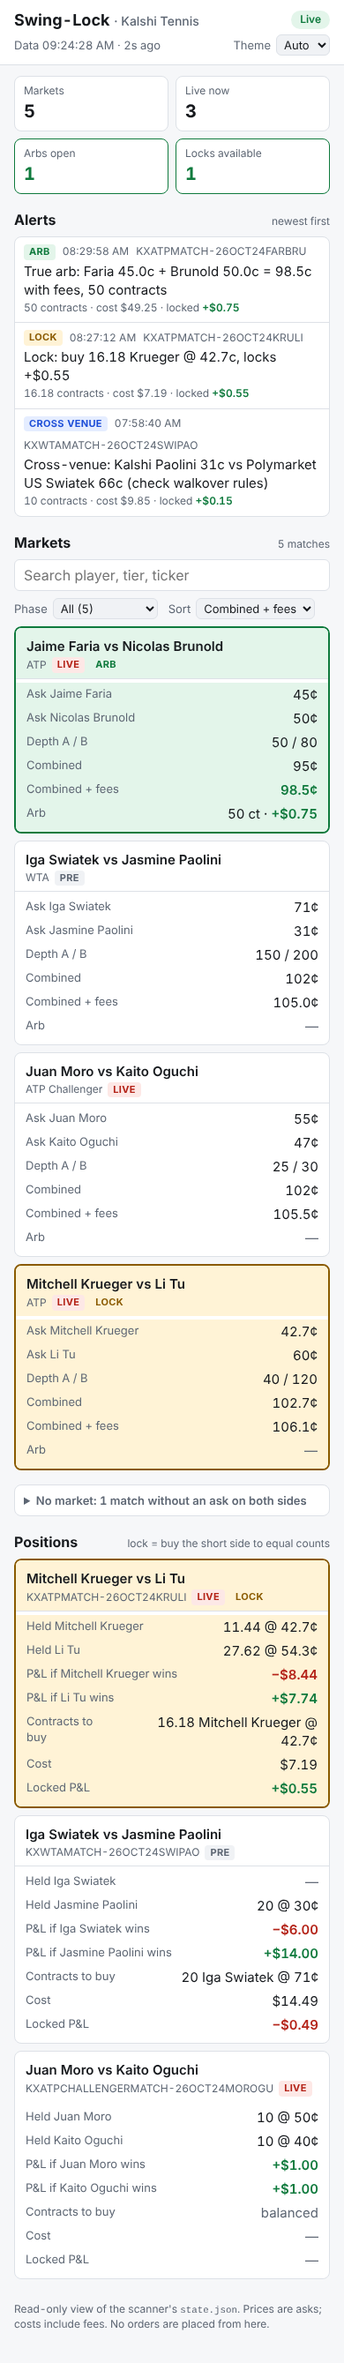
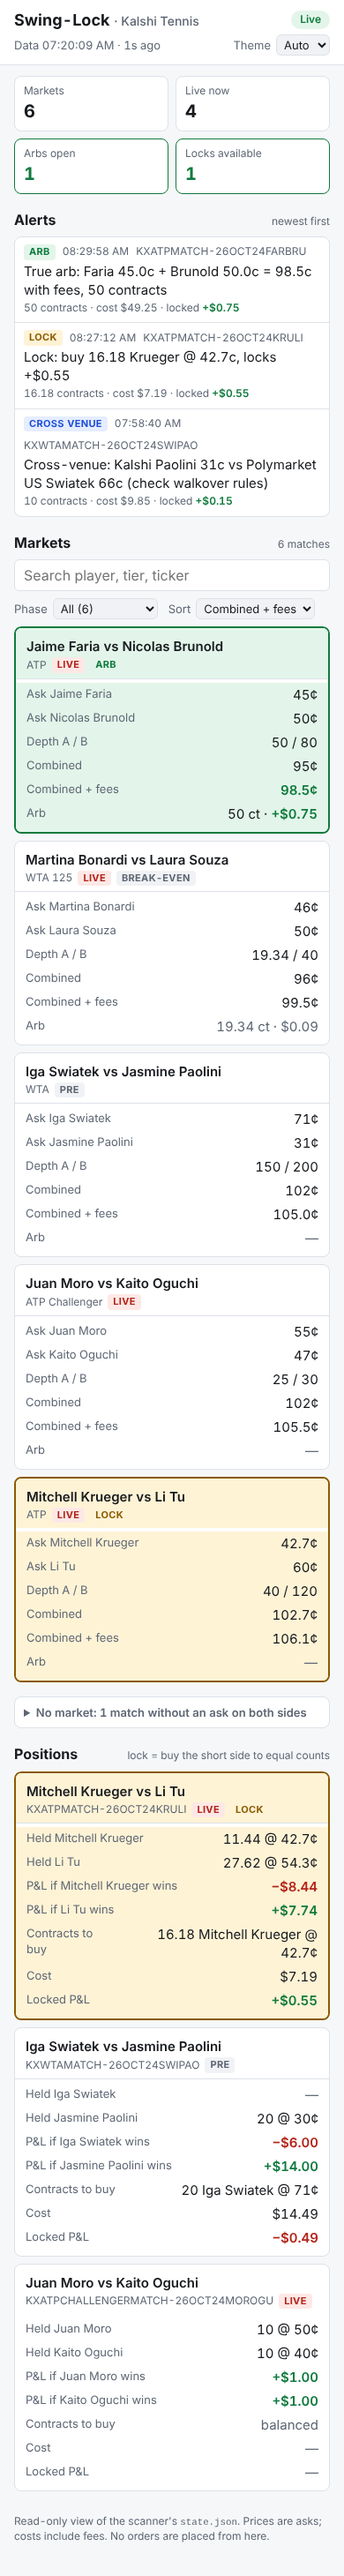
Dashboard: arbs count only above the alert threshold; WTA 125 / ATP Challenger labels
- an arb is open only when arb_profit / arb_contracts >= min_arb_profit_per_contract
  (from state.json when the scanner sends it, else config.yaml's 0.005); positive but
  smaller ones get a muted 'break-even' tag and stay out of the 'Arbs open' tile
- tier labels from the series (the scanner's tier says 'challenger' for both)
- sample: scanner-style tier values + a WTA 125 break-even match (19.34 ct, $0.09)
- tests: break-even, labels, threshold read from state; screenshots

Claude-Session: https://claude.ai/code/session_01W1DSUJuc7wQcHRTpWk2cX2

diff --git a/swinglock/dashboard/static/app.js b/swinglock/dashboard/static/app.js
@@ -118,14 +118,32 @@ function profitableLocks(s) {
   }
   return ids;
 }
-const isArb = (m) => isNum(m.arb_profit) && m.arb_profit > 0;
+// An arb counts as open only when its profit per contract clears the scanner's alert threshold
+// (state.min_arb_profit_per_contract if the scanner sends it, else config.yaml's default).
+// A positive profit below it rounds to about $0.00 at real size: shown as "break-even".
+const DEFAULT_MIN_ARB = 0.005;   // config.yaml scanner.min_arb_profit_per_contract
+function minArb() {
+  const v = state && state.min_arb_profit_per_contract;
+  return isNum(v) && v >= 0 ? v : DEFAULT_MIN_ARB;
+}
+const arbEdge = (m) => (isNum(m.arb_profit) && m.arb_profit > 0 && isNum(m.arb_contracts) && m.arb_contracts > 0
+  ? m.arb_profit / m.arb_contracts : null);
+const isArb = (m) => { const e = arbEdge(m); return e !== null && e >= minArb() - 1e-12; };
+const isBreakEven = (m) => arbEdge(m) !== null && !isArb(m);
+
+// Scanner's `tier` lumps ATP Challenger and WTA 125 together as "challenger"; label from the series.
+const SERIES_LABEL = {
+  KXATPMATCH: "ATP", KXWTAMATCH: "WTA", KXATPCHALLENGERMATCH: "ATP Challenger",
+  KXWTACHALLENGERMATCH: "WTA 125", KXITFMATCH: "ITF Men", KXITFWMATCH: "ITF Women",
+};
+const tierLabel = (m) => SERIES_LABEL[m.series] || m.tier || m.series || "";
 
 const PHASE_ORDER = { live: 0, pre: 1, unknown: 2 };
 const SORTS = {
   cwf: (a, b) => nullLast(a.combined_with_fees, b.combined_with_fees),
   combined: (a, b) => nullLast(a.combined, b.combined),
   arb: (a, b) => nullLast(b.arb_profit, a.arb_profit, true) || nullLast(a.combined_with_fees, b.combined_with_fees),
-  tier: (a, b) => String(a.tier || "").localeCompare(String(b.tier || "")) || nullLast(a.combined_with_fees, b.combined_with_fees),
+  tier: (a, b) => tierLabel(a).localeCompare(tierLabel(b)) || nullLast(a.combined_with_fees, b.combined_with_fees),
   phase: (a, b) => (PHASE_ORDER[a.phase] ?? 3) - (PHASE_ORDER[b.phase] ?? 3) || nullLast(a.combined_with_fees, b.combined_with_fees),
 };
 function nullLast(x, y, swapped = false) {
@@ -143,7 +161,7 @@ function phaseBadge(phase) {
 function matchCell(m) {
   return el("td", { class: "match" },
     el("div", { class: "players" }, `${m.player_a || "?"} vs ${m.player_b || "?"}`),
-    el("div", { class: "sub" }, m.tier || m.series || "", m.phase !== null && phaseBadge(m.phase), m.badges || []));
+    el("div", { class: "sub" }, m.label ?? tierLabel(m), m.phase !== null && phaseBadge(m.phase), m.badges || []));
 }
 // Cell content sits in one span so the phone card layout keeps label and value as two flex items.
 const td = (label, ...kids) => el("td", { class: "num", "data-label": label }, el("span", {}, ...kids));
@@ -153,7 +171,7 @@ const hasBothAsks = (m) => isNum(m.ask_a) && isNum(m.ask_b);
 function matchesFilter(m, q, phase) {
   if (phase !== "all" && (m.phase || "unknown") !== phase) return false;
   if (!q) return true;
-  const hay = [m.player_a, m.player_b, m.tier, m.series, m.match_id].join(" ").toLowerCase();
+  const hay = [m.player_a, m.player_b, tierLabel(m), m.tier, m.series, m.match_id].join(" ").toLowerCase();
   return q.split(/\s+/).every((w) => hay.includes(w));
 }
 
@@ -192,8 +210,10 @@ function renderMarkets(s) {
     body.append(el("tr", {}, el("td", { colspan: 7, class: "empty" }, msg)));
   }
   for (const m of rows) {
-    const arb = isArb(m), lock = locks.has(m.match_id);
-    const badges = [arb && el("span", { class: "badge arb" }, "arb"), lock && el("span", { class: "badge lock" }, "lock")];
+    const arb = isArb(m), even = isBreakEven(m), lock = locks.has(m.match_id);
+    const badges = [arb && el("span", { class: "badge arb" }, "arb"),
+      even && el("span", { class: "badge", title: `under ${(minArb() * 100).toFixed(1)}¢ per contract after fees` }, "break-even"),
+      lock && el("span", { class: "badge lock" }, "lock")];
     const cwf = m.combined_with_fees;
     body.append(el("tr", { class: arb ? "hot-arb" : lock ? "hot-lock" : "" },
       matchCell({ ...m, badges }),
@@ -201,8 +221,10 @@ function renderMarkets(s) {
       td("Ask " + (m.player_b || "B"), cents(m.ask_b)),
       td("Depth A / B", `${qty(m.size_a)} / ${qty(m.size_b)}`),
       td("Combined", cents(m.combined)),
-      td("Combined + fees", isNum(cwf) ? el("span", { class: cwf < 1 ? "pos" : "" }, cents(cwf)) : cents(cwf)),
-      td("Arb", arb ? [qty(m.arb_contracts) + " ct · ", money(m.arb_profit)] : el("span", { class: "na" }, "—"))));
+      td("Combined + fees", isNum(cwf) ? el("span", { class: arb ? "pos" : "" }, cents(cwf)) : cents(cwf)),
+      td("Arb", arb ? [qty(m.arb_contracts) + " ct · ", money(m.arb_profit)]
+        : even ? el("span", { class: "na" }, `${qty(m.arb_contracts)} ct · $${m.arb_profit.toFixed(2)}`)
+        : el("span", { class: "na" }, "—"))));
   }
 
   // Matches missing an ask on a side (often ended, suspended or not yet listed): one collapsed group.
@@ -213,7 +235,7 @@ function renderMarkets(s) {
       : `no ask on ${(!isNum(m.ask_a) ? m.player_a : m.player_b) || "one side"}`;
     return el("li", {},
       el("span", { class: "players" }, `${m.player_a || "?"} vs ${m.player_b || "?"}`),
-      el("span", { class: "why" }, `${m.tier || m.series || ""} · ${m.phase || "unknown"} · ${missing}`));
+      el("span", { class: "why" }, `${tierLabel(m)} · ${m.phase || "unknown"} · ${missing}`));
   }));
 }
 
@@ -240,7 +262,7 @@ function renderPositions(s) {
          L.depth_ok === false ? el("div", { class: "flag" }, "not enough depth") : null]
       : el("span", { class: "na" }, "balanced");
     body.append(el("tr", { class: hot ? "hot-lock" : "" },
-      matchCell({ player_a: p.player_a, player_b: p.player_b, tier: p.match_id,
+      matchCell({ player_a: p.player_a, player_b: p.player_b, label: p.match_id,
                   phase: (byId.get(p.match_id) || {}).phase ?? null,
                   badges: hot ? [el("span", { class: "badge lock" }, "lock")] : [] }),
       td("Held " + (p.player_a || "A"), held(p.contracts_a, p.avg_a)),

diff --git a/swinglock/dashboard/check_page.js b/swinglock/dashboard/check_page.js
@@ -34,6 +34,9 @@ const VIEWPORTS = { phone: { width: 390, height: 844 }, laptop: { width: 1280, h
         noMarket: document.getElementById("nomarket").hidden ? 0 : document.querySelectorAll("#nomarket-list li").length,
         firstMarket: document.querySelector("#markets tr .players")?.textContent || "",
         arbRows: document.querySelectorAll("#markets tr.hot-arb").length,
+        breakEven: [...document.querySelectorAll("#markets .badge")].filter((b) => b.textContent === "break-even").length,
+        arbTile: [...document.querySelectorAll("#summary .tile")].find((t) => t.textContent.startsWith("Arbs open"))?.querySelector(".v")?.textContent || "",
+        tierLabels: [...new Set([...document.querySelectorAll("#markets td.match .sub")].map((d) => d.firstChild?.textContent || ""))].sort(),
         lockRows: document.querySelectorAll("#positions tr.hot-lock").length,
         alerts: document.querySelectorAll("#alerts li").length,
         bg: getComputedStyle(document.body).backgroundColor,

diff --git a/tests/test_dashboard.py b/tests/test_dashboard.py
@@ -71,7 +71,10 @@ def test_sample_matches_contract(sample):
 
 def test_sample_covers_display_cases(sample):
     ms = sample["matches"]
-    assert any(m["arb_profit"] > 0 for m in ms)                       # an open arb
+    edge = lambda m: m["arb_profit"] / m["arb_contracts"] if m["arb_contracts"] else 0  # noqa: E731
+    assert any(edge(m) >= 0.005 for m in ms)                          # an open arb
+    assert any(0 < edge(m) < 0.005 for m in ms)                       # a break-even one (below the alert threshold)
+    assert {m["tier"] for m in ms} <= {"atp", "wta", "challenger", "itf", "other"}   # the scanner's own values
     assert any(m["ask_b"] is None and m["combined"] is None for m in ms)  # a side with no ask
     locks = [p["lock"] for p in sample["positions"]]
     assert None in locks                                              # balanced holding
@@ -195,13 +198,15 @@ def test_page_in_browser(serve, tmp_path, fresh):
     state.write_text(json.dumps(s))
     for res in _run_check(serve(state), "swiatek"):
         assert res["status"] == ("ok" if fresh else "stale")
-        assert res["markets"] == 4 and res["noMarket"] == 1 and res["alerts"] == 3
+        assert res["markets"] == 5 and res["noMarket"] == 1 and res["alerts"] == 3
         assert res["arbRows"] == 1 and res["lockRows"] == 1
+        assert res["breakEven"] == 1 and res["arbTile"] == "1"     # the $0.09 / 19.34 ct arb doesn't count
+        assert res["tierLabels"] == ["ATP", "ATP Challenger", "WTA", "WTA 125"]
         assert res["firstMarket"] == "Jaime Faria vs Nicolas Brunold"   # sorted by combined + fees
         f = res["filters"]
-        assert f["search"] == {"rows": 1, "noMarket": 0, "label": "1 of 5 matches"}
-        assert f["pre"] == {"rows": 1, "noMarket": 0, "label": "1 of 5 matches"}
-        assert f["all"] == {"rows": 4, "noMarket": 1, "label": "5 matches"}
+        assert f["search"] == {"rows": 1, "noMarket": 0, "label": "1 of 6 matches"}
+        assert f["pre"] == {"rows": 1, "noMarket": 0, "label": "1 of 6 matches"}
+        assert f["all"] == {"rows": 5, "noMarket": 1, "label": "6 matches"}
 
 
 @pytest.mark.skipif(not _node_playwright(), reason="needs node + playwright")
@@ -229,3 +234,15 @@ def test_page_with_many_matches(serve, tmp_path):
         assert 0 < res["filters"]["search"]["rows"] == len(hits) < 100 - no_ask
         assert res["filters"]["pre"]["rows"] + res["filters"]["pre"]["noMarket"] == len(pre)
         assert res["filters"]["all"]["label"] == "100 matches"
+
+
+@pytest.mark.skipif(not _node_playwright(), reason="needs node + playwright")
+def test_arb_threshold_from_state(serve, tmp_path):
+    """If the scanner sends `min_arb_profit_per_contract`, the page uses it instead of the config default."""
+    s = json.loads(SAMPLE_STATE.read_text())
+    s["generated_at"] = _now()
+    s["min_arb_profit_per_contract"] = 0.004     # the Bonardi-Souza arb (0.48c/ct) now clears it
+    state = tmp_path / "state.json"
+    state.write_text(json.dumps(s))
+    for res in _run_check(serve(state)):
+        assert res["arbRows"] == 2 and res["breakEven"] == 0 and res["arbTile"] == "2"

diff --git a/docs/ui_dashboard.md b/docs/ui_dashboard.md
@@ -27,6 +27,12 @@ an SSH tunnel (`ssh -L 8000:127.0.0.1:8000 vps`) or a VPN; there is no login on 
   the future = a clock problem). **Offline** banner when `/state.json` can't be loaded.
 - Summary tiles: markets, live now, arbs open, locks available.
 - Alerts, newest first (by `ts`), coloured by type (arb / lock / cross venue).
+- **Arb rule:** a row is an open arb (green row, ARB badge, "Arbs open" tile) only when `arb_profit / arb_contracts` is at
+  least the scanner's alert threshold: `state.min_arb_profit_per_contract` if the scanner sends it, otherwise config.yaml's
+  default of 0.005 $/contract. A positive profit below it (e.g. 19.34 ct for $0.09) gets a muted "break-even" tag and
+  isn't counted.
+- **Tier labels** come from `series`, because the scanner's `tier` says "challenger" for both: ATP, WTA, ATP Challenger,
+  WTA 125, ITF Men, ITF Women.
 - Markets: players, tier, phase, ask A, ask B, depth A / B, combined, combined + fees, arb
   contracts and profit. Sort by combined + fees (default, cheapest first), combined, arb profit,
   tier or phase. **Search** (player, tier, series or ticker; every word must match) and a **phase
